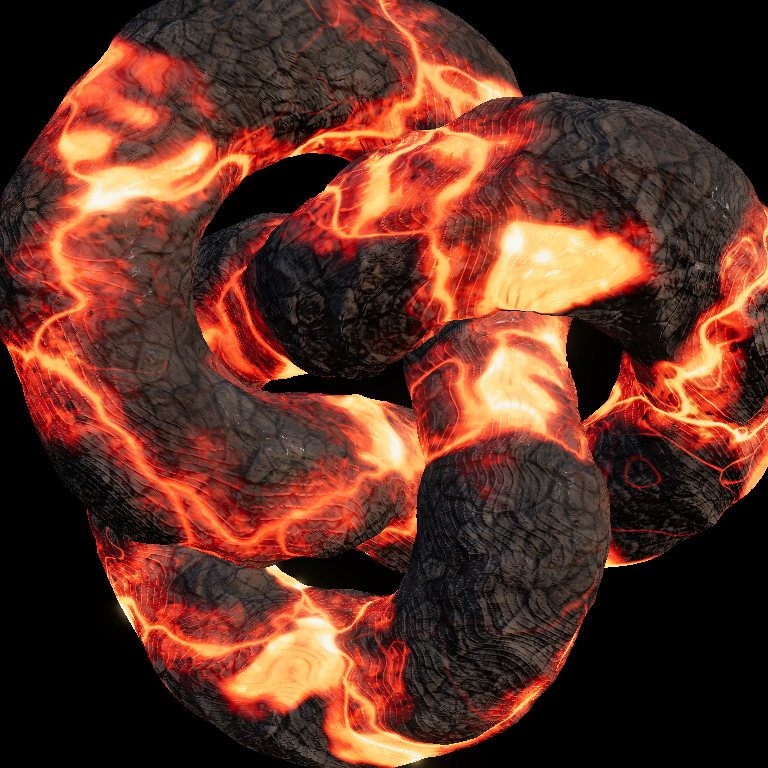
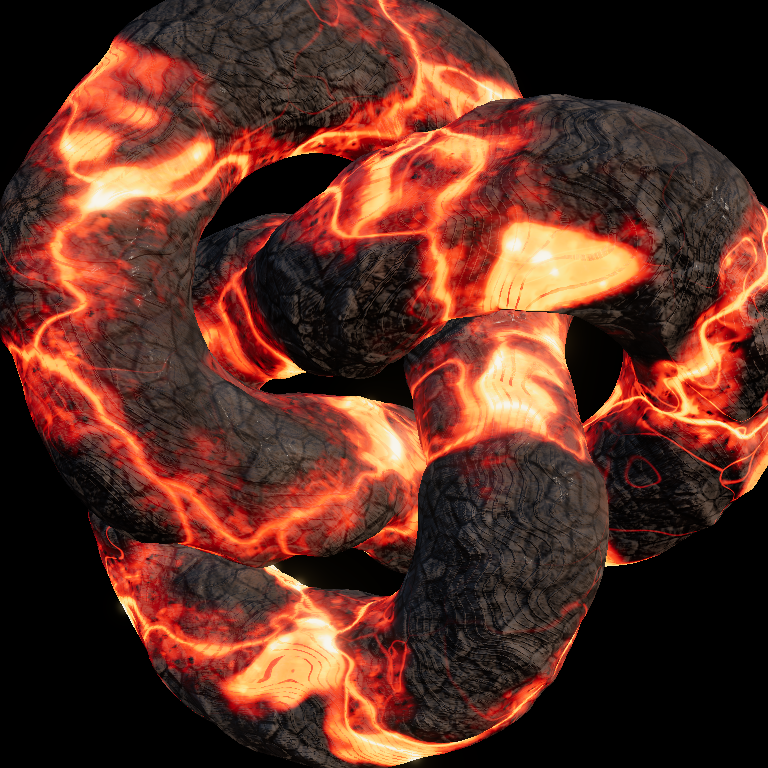
Bold cord widths, melt-only lines, smooth displacement, LOD fading
Flow cords now swing between fat bands and hairlines along their
length via a bimodal width field instead of one uniform profile, and
they mark only the melt: the crease-glow lines over solid crust are
gone. Two rendering-quality fixes ride along: vertex displacement
switches to a new smooth crustRelief field (the per-cell flake
plateaus in crustHeight were stair-stepping on the mesh grid at wash
edges), and the micro-grain and striation detail registers fade with
the fwidth pixel footprint so minified areas resolve cleanly instead
of speckling; the bloom radius tightens for crisper cores. Preview
regenerated.

Claude-Session: https://claude.ai/code/session_016LagSa3e7nym5icJi3TRmZ

diff --git a/examples/three-tsl/src/lava-material.ts b/examples/three-tsl/src/lava-material.ts
@@ -1,13 +1,14 @@
 import * as THREE from "three/webgpu";
-import { float, mix, normalLocal, positionLocal, smoothstep, time, transformNormalToView, uniform, vec3 } from "three/tsl";
+import { float, fwidth, mix, normalLocal, positionLocal, smoothstep, time, transformNormalToView, uniform, vec3 } from "three/tsl";
 import type { Node } from "three/webgpu";
 import lavaModule from "./lava.wgsl";
 import { tslExports } from "./wgsl-tsl.ts";
 
-const { lavaGlow, blackbody, crustHeight, crustSurface, crustPbr, lavaSink, microDetail, flowStriations } = tslExports(lavaModule, [
+const { lavaGlow, blackbody, crustHeight, crustRelief, crustSurface, crustPbr, lavaSink, microDetail, flowStriations } = tslExports(lavaModule, [
   "lavaGlow",
   "blackbody",
   "crustHeight",
+  "crustRelief",
   "crustSurface",
   "crustPbr",
   "lavaSink",
@@ -59,6 +60,13 @@ export function createLavaMaterial(options: LavaMaterialOptions = {}): LavaMater
   const grain = micro.x;
   const streaks = micro.y;
 
+  // Band-limiting: fade each detail register out as its wavelength drops
+  // under the pixel footprint, so distant/minified areas stay clean instead
+  // of dissolving into per-pixel speckle.
+  const footprint = fwidth(p).length();
+  const microFade = smoothstep(0.022, 0.007, footprint);
+  const striaeFade = smoothstep(0.012, 0.004, footprint);
+
   const material = new THREE.MeshPhysicalNodeMaterial({ metalness: 0 });
 
   // Basalt skin: warm dusty grey-brown, ridges catching more light than the
@@ -79,7 +87,7 @@ export function createLavaMaterial(options: LavaMaterialOptions = {}): LavaMater
   // the glassy skin is polished but streaked by flow lines, vesicle pits and
   // dusty valleys scatter more, and molten rock is a glossy liquid.
   const crustRoughness = mix(float(0.94), float(0.55), glass)
-    .add(grain.sub(0.5).mul(0.14))
+    .add(grain.sub(0.5).mul(microFade.mul(0.14)))
     .add(streaks.sub(0.5).mul(0.12).mul(glass))
     .add(pits.mul(0.08))
     .add(height.oneMinus().mul(0.05));
@@ -104,10 +112,11 @@ export function createLavaMaterial(options: LavaMaterialOptions = {}): LavaMater
   material.iridescenceIORNode = float(2.0);
   material.iridescenceThicknessNode = irid.mul(250).add(150);
 
-  // Plates bulge up, molten channels sink. The sink mask is a separate wide,
-  // low-frequency field so coarse meshes sample it without stippling.
+  // Plates bulge up, molten channels sink. Vertices only see smooth fields:
+  // crustRelief has no per-cell flake plateaus (those would stair-step on
+  // the mesh grid) and the sink mask is wide and low-frequency.
   const sink = lavaSink({ position: p, t });
-  const relief = height.mul(0.5).sub(sink.mul(0.4)).mul(0.12);
+  const relief = crustRelief({ position: p, t }).mul(0.5).sub(sink.mul(0.4)).mul(0.12);
   material.positionNode = positionLocal.add(normalLocal.mul(relief));
 
   // Bump normals in two registers, both by finite differences projected onto
@@ -142,8 +151,8 @@ export function createLavaMaterial(options: LavaMaterialOptions = {}): LavaMater
 
   const bumped = normalLocal
     .sub(tangentGrad.mul(mix(float(0.16), float(0.04), molten)))
-    .sub(microTangent.mul(mix(float(0.022), float(0.008), molten)))
-    .sub(striaeTangent.mul(mix(float(0.006), float(0.012), molten)))
+    .sub(microTangent.mul(mix(float(0.022), float(0.008), molten).mul(microFade)))
+    .sub(striaeTangent.mul(mix(float(0.006), float(0.012), molten).mul(striaeFade)))
     .normalize();
   material.normalNode = transformNormalToView(bumped);
 

diff --git a/examples/three-tsl/src/post.ts b/examples/three-tsl/src/post.ts
@@ -16,7 +16,7 @@ export function createBloomPipeline(
   const postProcessing = new THREE.PostProcessing(renderer);
   const scenePass = pass(scene, camera, { samples: options.samples ?? 4 });
   const sceneColor = scenePass.getTextureNode();
-  const bloomNode = bloom(sceneColor, 0.42, 0.28, 1.6);
+  const bloomNode = bloom(sceneColor, 0.42, 0.2, 1.6);
   postProcessing.outputNode = sceneColor.add(bloomNode);
   return postProcessing;
 }

diff --git a/examples/three-tsl/README.md b/examples/three-tsl/README.md
@@ -49,9 +49,10 @@ TSL nodes:
   the channels, textured by `flowStriations` (thin cooled cords fanning
   through the melt skin, ~50 per lobe) with white-hot contact rims at wash
   edges and around floating crust islands; and a fringe over solid crust —
-  a wide thermal gradient toward the melt, ember speckle seeping through
-  the micro grain, and the same flow cords inverted so their crease
-  centers glow as thin lava lines in the fold valleys.
+  a wide thermal gradient toward the melt plus ember speckle seeping
+  through the micro grain. The cords swing boldly between fat bands and
+  hairlines via a bimodal width field, and only mark the melt, never the
+  rock.
 - `blackbody` — incandescence ramp (black → deep red → orange → yellow-white)
   feeding `emissiveNode` with HDR intensity under ACES tone mapping.
 - `crustHeight` — plate relief plus pahoehoe rope folds on lobe patches,
